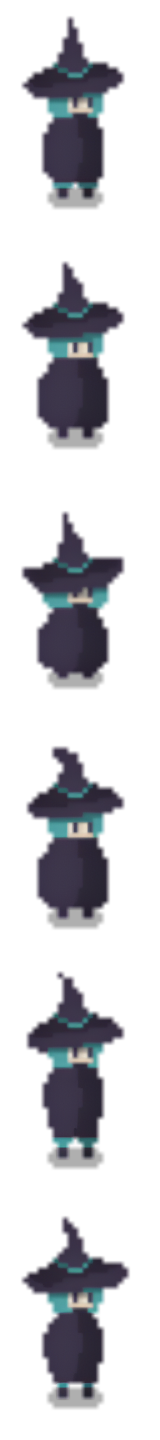
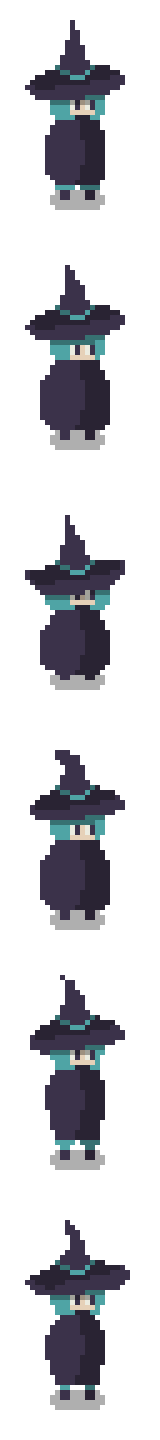
merge all changes make normal quality of animations make code a bit prettier

diff --git a/classes/Player.py b/classes/Player.py
@@ -9,7 +9,8 @@ from classes.States import States
 class Player(Sprite, AnimatedObject):
     def __init__(self, center, margins_l_t_r_b: tuple[int, int, int, int]):
         Sprite.__init__(self, all_sprites)
-        AnimatedObject.__init__(self, state=States.idle, animation_idle=PLAYER_IDLE_ANIMATION, animation_run=PLAYER_RUN_ANIMATION)
+        AnimatedObject.__init__(self, state=States.idle, animation_idle=PLAYER_IDLE_ANIMATION,
+                                animation_run=PLAYER_RUN_ANIMATION)
         self.all_sprites = all_sprites
         self.margin_left, self.margin_top, self.margin_right, self.margin_bottom = margins_l_t_r_b
         self.frames = []
@@ -26,11 +27,9 @@ class Player(Sprite, AnimatedObject):
                                               self.rect.width - self.margin_left - self.margin_right,
                                               self.rect.height - self.margin_bottom - self.margin_top)
 
-
         self.hitbox = self.hitbox_sprite.rect
-        self.time_per_shoot = 0
+        self.last_shoot = 0
         self.time_per_damage = 0
-        self.time_animation = 0
 
         self.rect.x = self.x
         self.rect.y = self.y
@@ -43,26 +42,22 @@ class Player(Sprite, AnimatedObject):
         self.hp = min(self.hp + health, self.max_hp)
 
     def take_damage(self, damage):
-        if self.time_per_damage > TIME_INVULNERABILITY:
+        now = pygame.time.get_ticks()
+        if now - self.time_per_damage > TIME_INVULNERABILITY:
             self.hp = max(self.hp - damage, 0)
-
-            self.time_per_damage = 0
-
+            self.time_per_damage = now
 
     def draw(self, screen):
         screen.blit(self.image, self.rect)
 
-
     def update(self):
-        super().update()
+        Sprite.update(self)
         AnimatedObject.update(self)
-        self.time_per_shoot += self.t
-        self.time_per_damage += self.t
-        self.time_animation += self.t
 
     def shoot(self, camera):
-        if self.time_per_shoot >= TIME_PER_SHOOT:
+        now = pygame.time.get_ticks()
+        if now - self.last_shoot >= TIME_PER_SHOOT:
             x = self.rect.center[0] + camera.dx
             y = self.rect.center[1] + camera.dy
             Bullet(camera, x, y, self, (0, 0, 0, 0), OBJECT_BULLET)
-            self.time_per_shoot = 0
+            self.last_shoot = now

diff --git a/classes/AnimatedObject.py b/classes/AnimatedObject.py
@@ -25,32 +25,26 @@ class AnimatedObject:
         self.frame_rate = 100
         self.update_animation()
         self.image = self.frames[self.cur_frame]
-
-        self.time_frame = 0
         self.clock = pygame.time.Clock()
-        self.t = 0
-
-
 
     def update_animation(self):
-        if self.state == States.run:
-            self.cut_sheet(self.animation_run.get_surface(), *self.animation_run.get_size())
-        elif self.state == States.idle:
-            self.cut_sheet(self.animation_idle.get_surface(), *self.animation_idle.get_size())
-        elif self.state == States.get_damage:
-            self.cut_sheet(self.animation_get_damage.get_surface(), *self.animation_get_damage.get_size())
+        match self.state:
+            case States.run:
+                self.cut_sheet(self.animation_run.get_surface(), *self.animation_run.get_size())
+            case States.idle:
+                self.cut_sheet(self.animation_idle.get_surface(), *self.animation_idle.get_size())
+            case States.get_damage:
+                self.cut_sheet(self.animation_get_damage.get_surface(), *self.animation_get_damage.get_size())
 
     def update(self):
-        self.t = self.clock.tick()
-        self.time_frame += self.t
-        if self.time_frame >= TIME_PER_FRAME * 10:
+        now = pygame.time.get_ticks()
+        if now - self.last_update > self.frame_rate:
             self.play_next_frame()
-
-        self.image = self.frames[self.cur_frame]
+            self.last_update = now
 
     def play_next_frame(self):
         self.cur_frame = (self.cur_frame + 1) % len(self.frames)
-        self.time_frame = 0
+        self.image = self.frames[self.cur_frame]
 
     def cut_sheet(self, sheet: pygame.Surface, columns: int, rows: int):
         if not sheet:
@@ -62,7 +56,6 @@ class AnimatedObject:
                 frame_location = (self.rect.w * i, self.rect.h * j)
                 self.frames.append(sheet.subsurface(pygame.Rect(
                     frame_location, self.rect.size)))
-        self.image = self.frames[self.cur_frame]
 
     def change_state(self, new_state: States):
         self.state = new_state

diff --git a/classes/Enemy.py b/classes/Enemy.py
@@ -26,6 +26,18 @@ class Enemy(Object, AnimatedObject):
         #     return
         dx, dy = dx * self.speed / dist / FPS, dy * self.speed / dist / FPS
         self.move(dx, dy)
+        AnimatedObject.update(self)
+
+    # def rotate(self):
+    #     rel_x = self.camera.dx - self.x + self.camera.rect.centerx
+    #     rel_y = self.camera.dy - self.y + self.camera.rect.centery
+    #     angle = (180 / math.pi) * -math.atan2(rel_y, rel_x) + 180
+    #     if 90 < angle < 270:
+    #         self.image = pygame.transform.rotate(self.root_image, 360 - int(angle))
+    #         self.image = pygame.transform.flip(self.image, False, True)
+    #     else:
+    #         self.image = pygame.transform.rotate(self.root_image, int(angle))
+    #     self.rect = self.image.get_rect(center=self.rect.center)
 
 
     def take_damage(self, damage):

diff --git a/main.py b/main.py
@@ -78,12 +78,12 @@ if __name__ == '__main__':
         wall.draw(screen)
 
         all_sprites.update()
-        # arr = sorted(list(all_sprites.sprites()), key=lambda sprite: sprite.hitbox.bottom)
+        arr = sorted(list(all_sprites.sprites()), key=lambda sprite: sprite.hitbox.bottom)
         enemy.move_towards_player(player)
         enemy2.move_towards_player(player)
-        # for sprite in arr:
-        #     sprite.draw(screen)
-        all_sprites.draw(screen)
+        for sprite in arr:
+            sprite.draw(screen)
+        # all_sprites.draw(screen)
 
         pygame.display.flip()
     pygame.quit()
